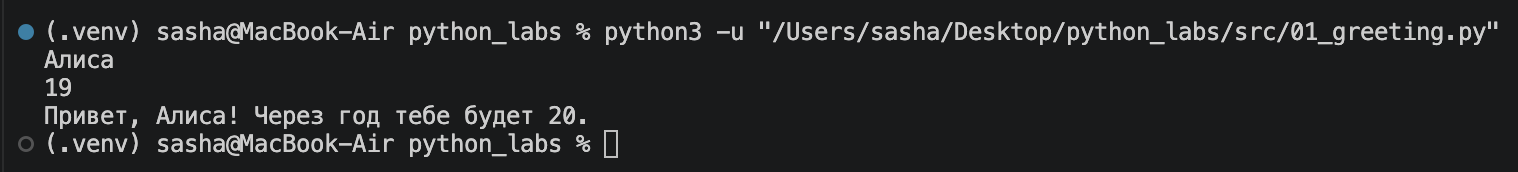
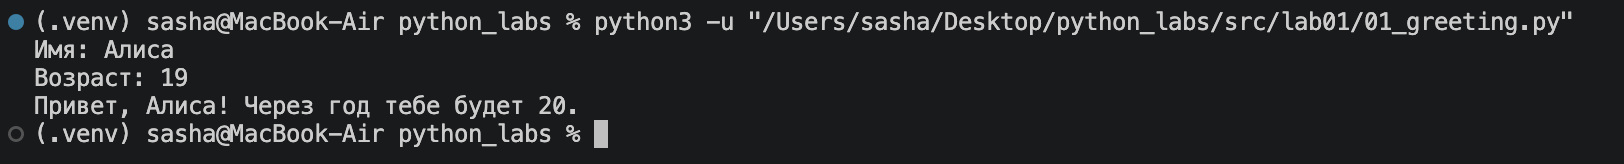
fixed the entire thing

Changed region(s): [[0.0, 0.061, 0.9908, 0.3963], [0.0, 0.5793, 0.4025, 0.9146], [0.0, 0.3963, 0.1238, 0.5793]]

diff --git a/src/lab01/05_initials_and_len.py b/src/lab01/05_initials_and_len.py
@@ -1,6 +1,6 @@
-name = input()
+name = input("ФИО: ")
 parts = name.split()
-initials = ''.join(p[0] for p in parts)
+initials = ''.join(p[0].upper() for p in parts)
 clean_name = ' '.join(parts)
 print(f"Инициалы: {initials}")
-print(f"Длина: {len(clean_name)}")
+print(f"Длина (символов): {len(clean_name)}")

diff --git a/src/lab01/03_discount_vat.py b/src/lab01/03_discount_vat.py
@@ -1,6 +1,6 @@
-price = float(input())
-discount = float(input())
-vat = float(input())
+price = float(input("price: "))
+discount = float(input("discount: "))
+vat = float(input("VAT: "))
 base = price * (1 - discount/100)
 vat_amount = base * (vat/100)
 total = base + vat_amount

diff --git a/src/lab01/06_attendance.py b/src/lab01/06_attendance.py
@@ -1,0 +1,9 @@
+n = int(input("in_1: "))
+ochno, zaochno = 0, 0
+for i in range(n):
+    surname, name, age, presence = input(f"in_{i+2}: ").split()
+    if presence == "True":
+        ochno += 1
+    else:
+        zaochno += 1
+print("out:", ochno, zaochno)

diff --git a/src/lab01/07_cypher.py b/src/lab01/07_cypher.py
@@ -1,4 +1,4 @@
-s = input()
+s = input("in: ")
 first, second = 0, 0
 for i in range(len(s)):
     if s[i].isupper():
@@ -19,4 +19,4 @@ for i in range(first, len(s), dist):
     if s[i] == ".":
         break
     
-print(res)
+print("out:", res)

diff --git a/src/lab01/02_sum_avg.py b/src/lab01/02_sum_avg.py
@@ -1,4 +1,4 @@
-a, b = float(input().replace(",", ".")), float(input().replace(",", "."))
+a, b = float(input("a: ").replace(",", ".")), float(input("b: ").replace(",", "."))
 sum = a + b
 avg = sum / 2
 print(f"{sum=:.2f}; {avg=:.2f}")

diff --git a/src/lab01/01_greeting.py b/src/lab01/01_greeting.py
@@ -1,2 +1,2 @@
-name, age = input(), int(input())
+name, age = input("Имя: "), int(input("Возраст: "))
 print(f"Привет, {name}! Через год тебе будет {age+1}.")

diff --git a/src/lab01/04_minutes_to_hhmm.py b/src/lab01/04_minutes_to_hhmm.py
@@ -1,3 +1,3 @@
-m = int(input())
+m = int(input("Минуты: "))
 hrs, mins = m // 60, m % 60
 print(f"{hrs}:{mins:02d}")

diff --git a/src/lab01/README.md b/src/lab01/README.md
@@ -21,8 +21,8 @@
 
 ## Задание 6
 Программа циклично N раз считывает ввод, сверяет последнее слово с True или False, увеличивает переменную отвечающую либо за очное посещение, либо за заочное и выводит их.
-![Пример работы программы 6](/images/lab01/06.png)
+![Пример работы программы 6](/images/lab01/06_attendance.png)
 
 ## Задание 7
 Первым циклом программа ищет индекс заглавной буквы, вторым - цифры. Вычисляет расстояние и запускает цикл от первой буквы и до конца строки с шагом в рассчитанное расстояние, когда встречает точку - завершает цикл и выводит ответ.
-![Пример работы программы 7](/images/lab01/07.png)
+![Пример работы программы 7](/images/lab01/07_cypher.png)
